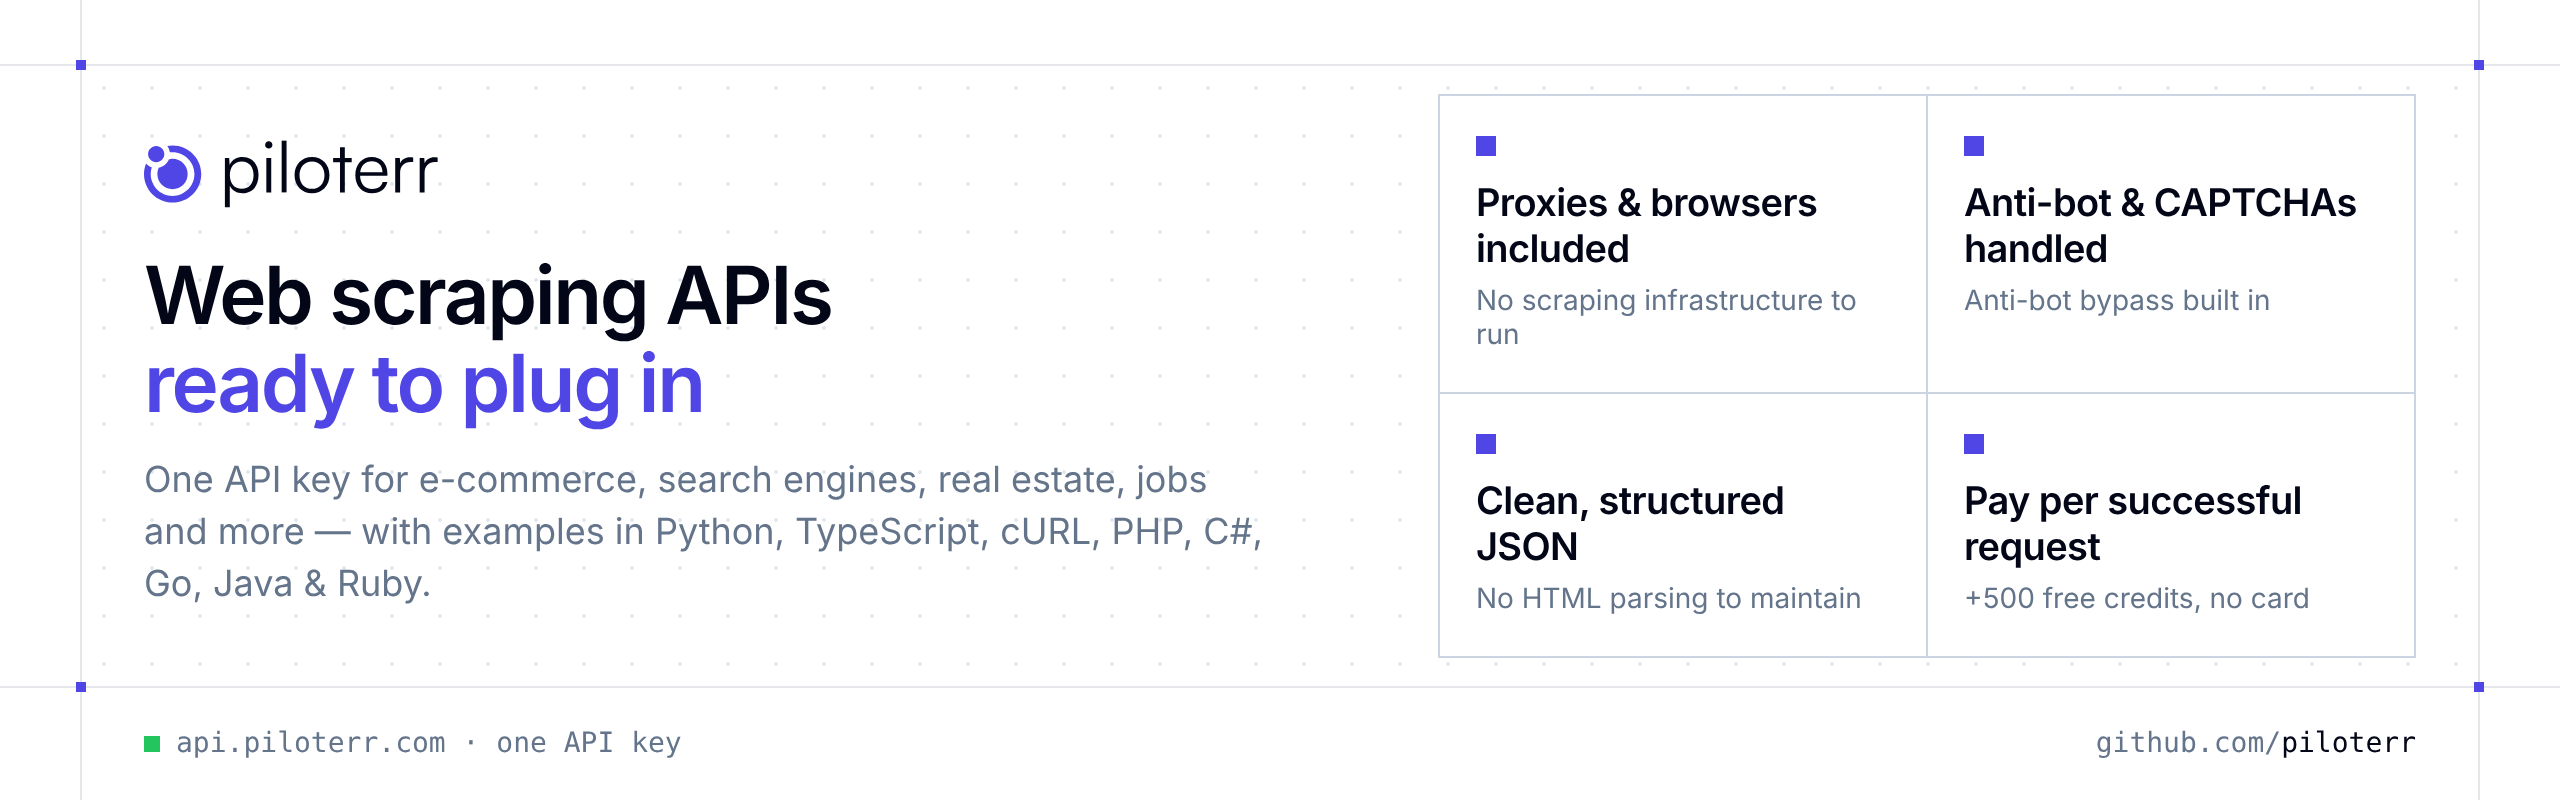
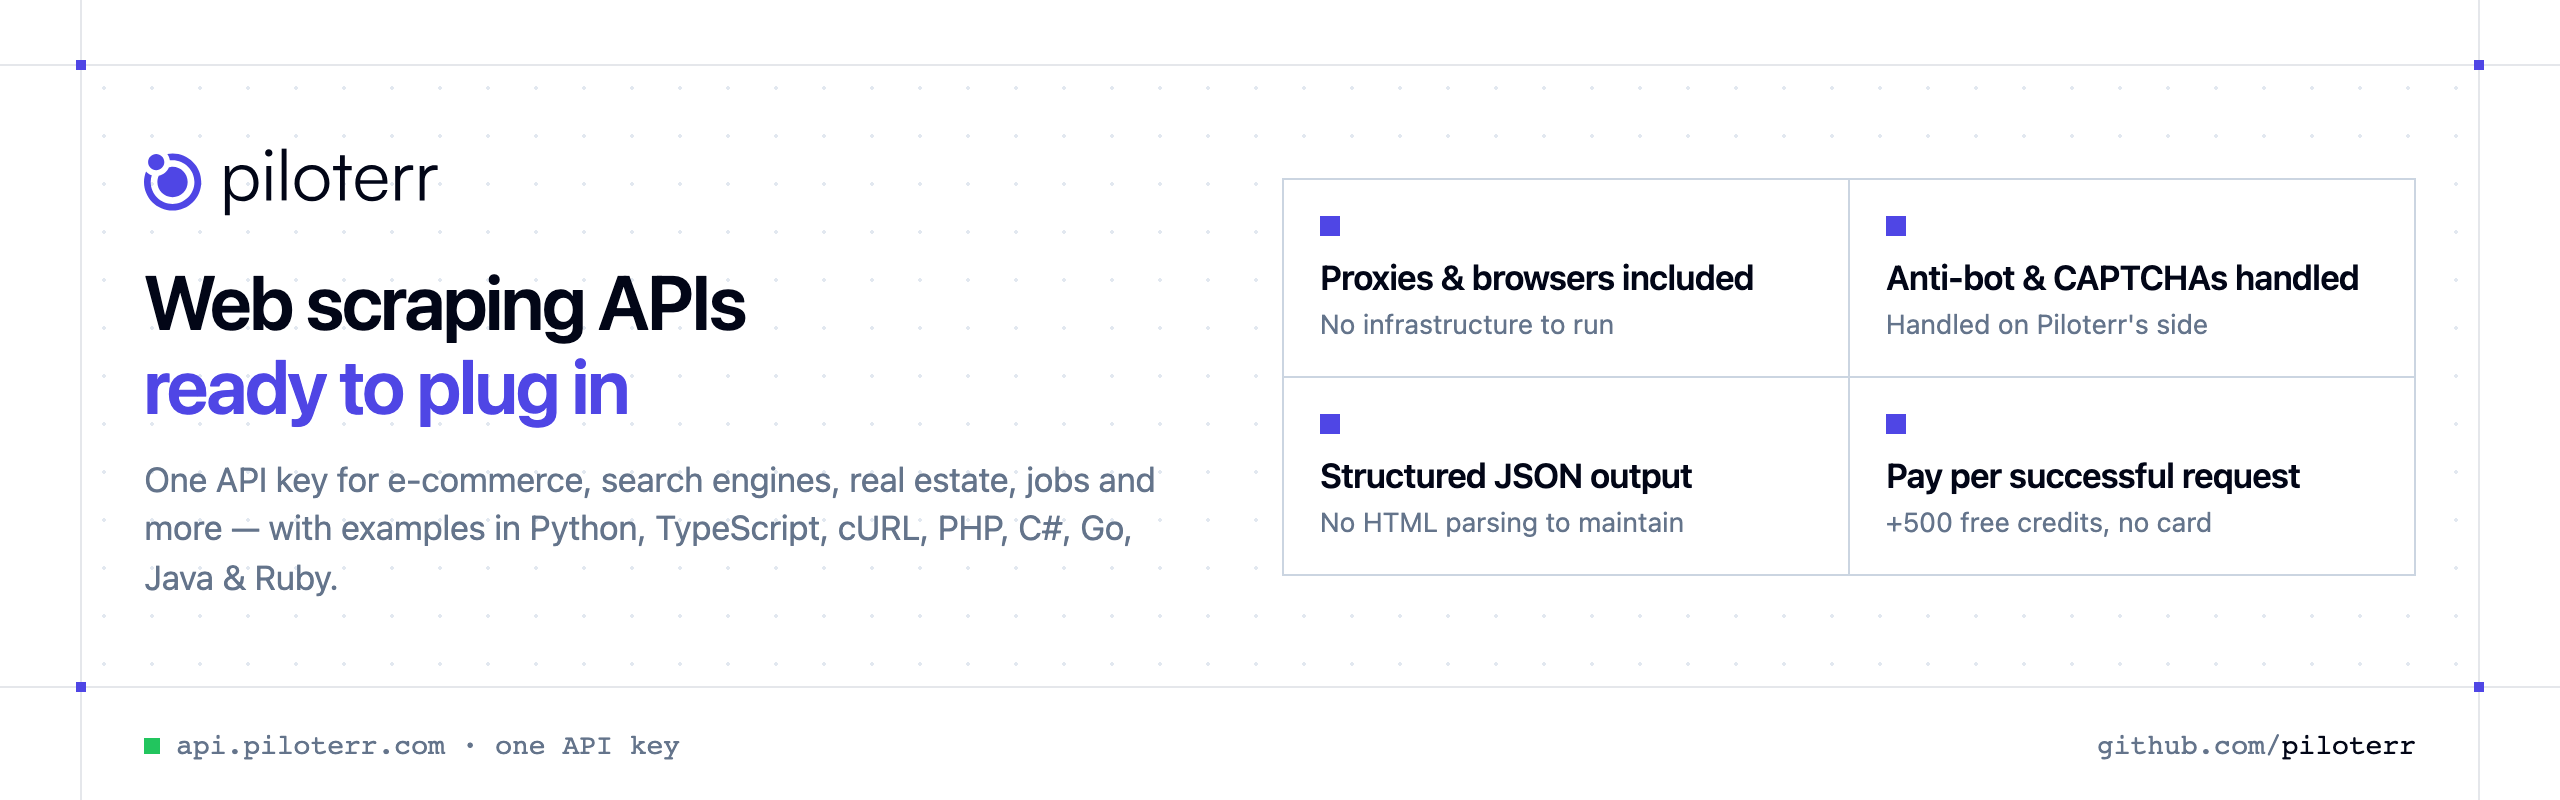
Update Piloterr organization profile examples and docs

diff --git a/profile/README.md b/profile/README.md
@@ -29,7 +29,7 @@ curl -G https://api.piloterr.com/v2/amazon/search \
 
 ### Find your scraper
 
-👉 **[Browse all 121 repositories](https://github.com/orgs/piloterr/repositories)** — search for a website name
+👉 **[Browse all 142 repositories](https://github.com/orgs/piloterr/repositories)** — search for a website name
 (e.g. `amazon`, `zillow`, `google`) to find its scraper and copy-paste examples.
 
 ---
